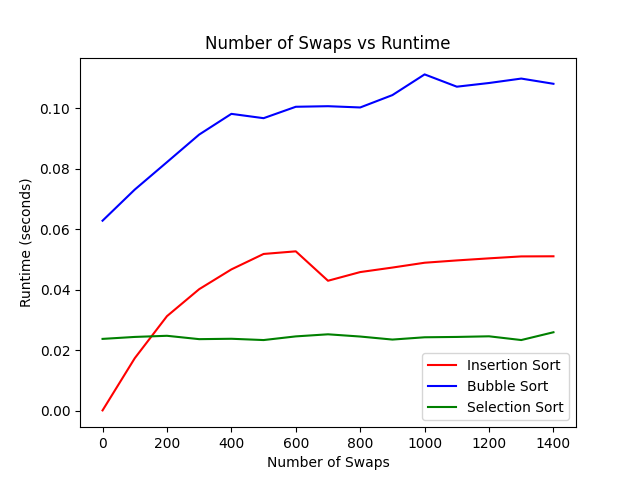
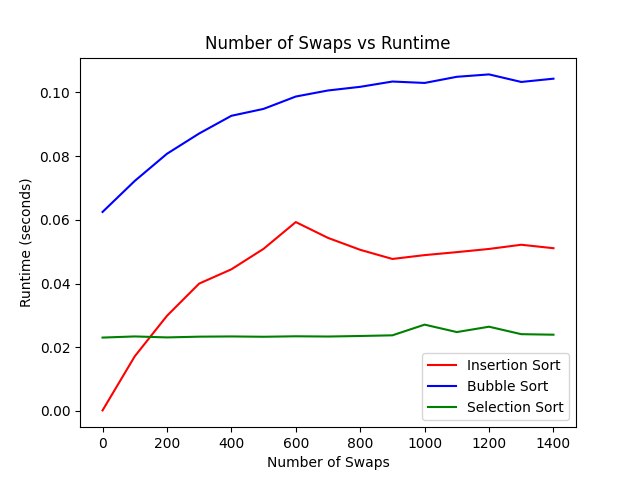
updated grpahs and added max value incrementations

diff --git a/Lab 1/Experiment 7/Experiment 7.py b/Lab 1/Experiment 7/Experiment 7.py
@@ -49,6 +49,8 @@ def test_allSorts(sortMethod, test_runs, increase_list):
         # appending into the lists to plot in matplotlib
         list_lengths.append(list_len)
         times.append(time / average_runs)
+        # incrementing both list length and maximum value of the list
+        max_value += max_value
         list_len += increase_list
 
     return list_lengths, times

diff --git a/Lab 1/Experiment 3/Experiment 3.py b/Lab 1/Experiment 3/Experiment 3.py
@@ -28,6 +28,7 @@ def test_allSorts(sortType):
             time += (end - start)
         swaps.append(i)
         times.append(time / average_runs)
+        max_value += 100
 
     #returns x and y axis
     return swaps, times
